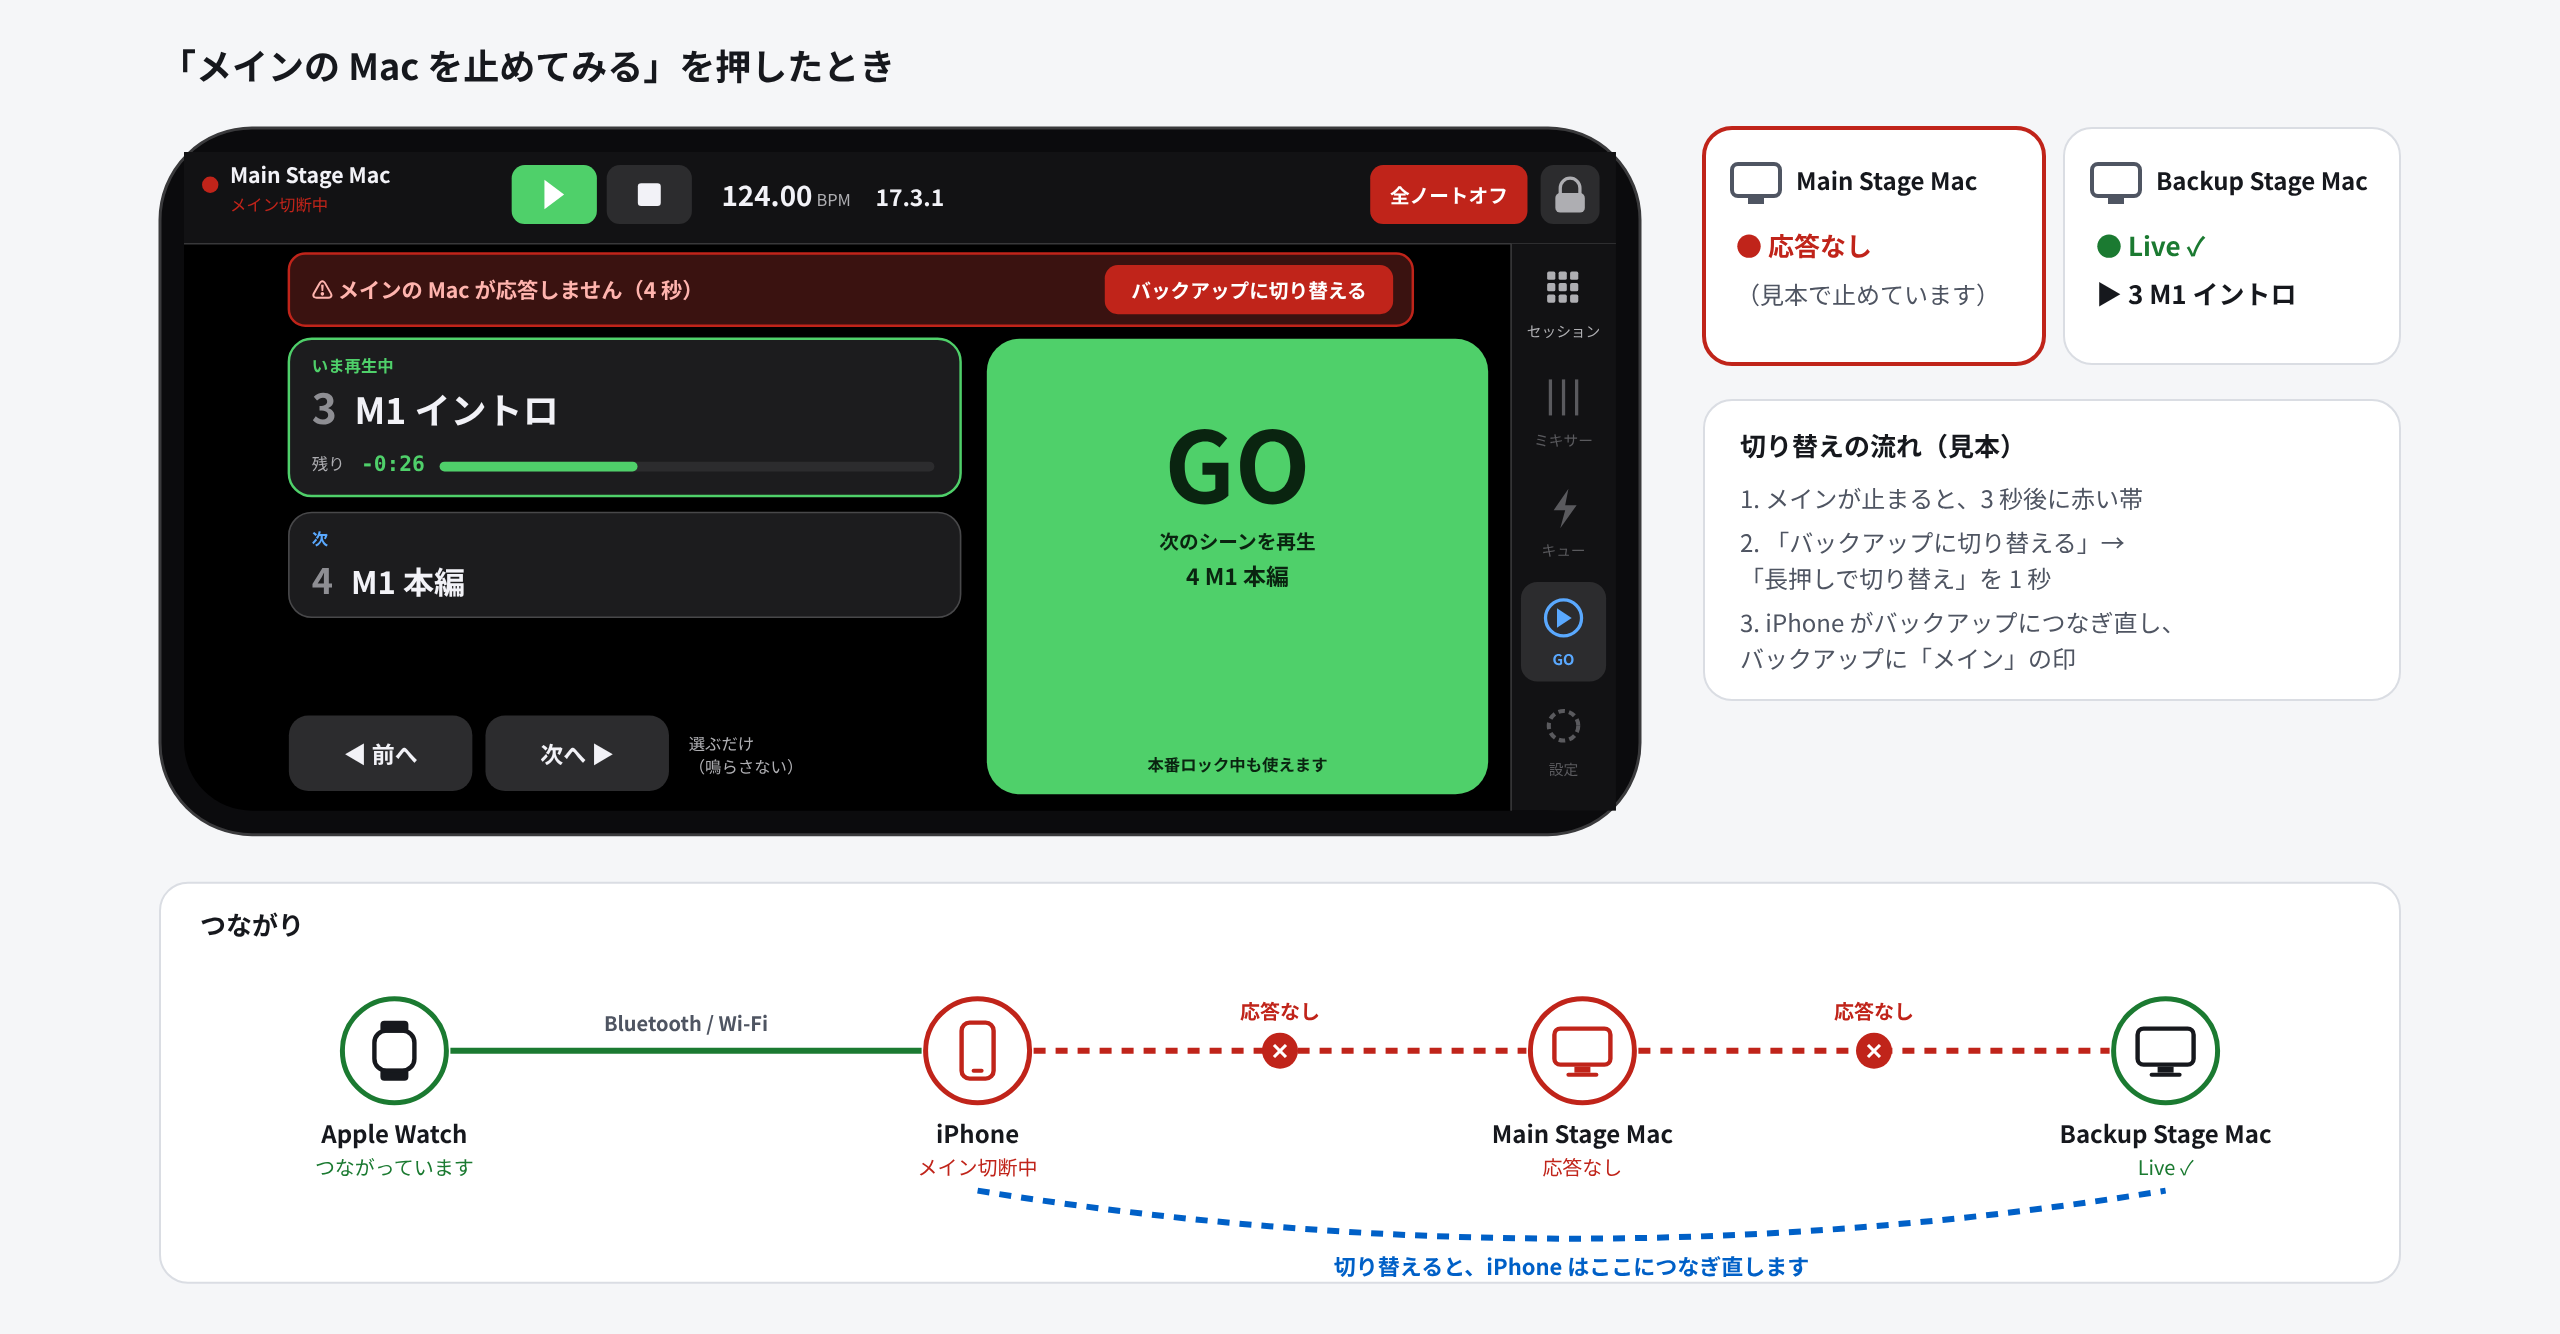
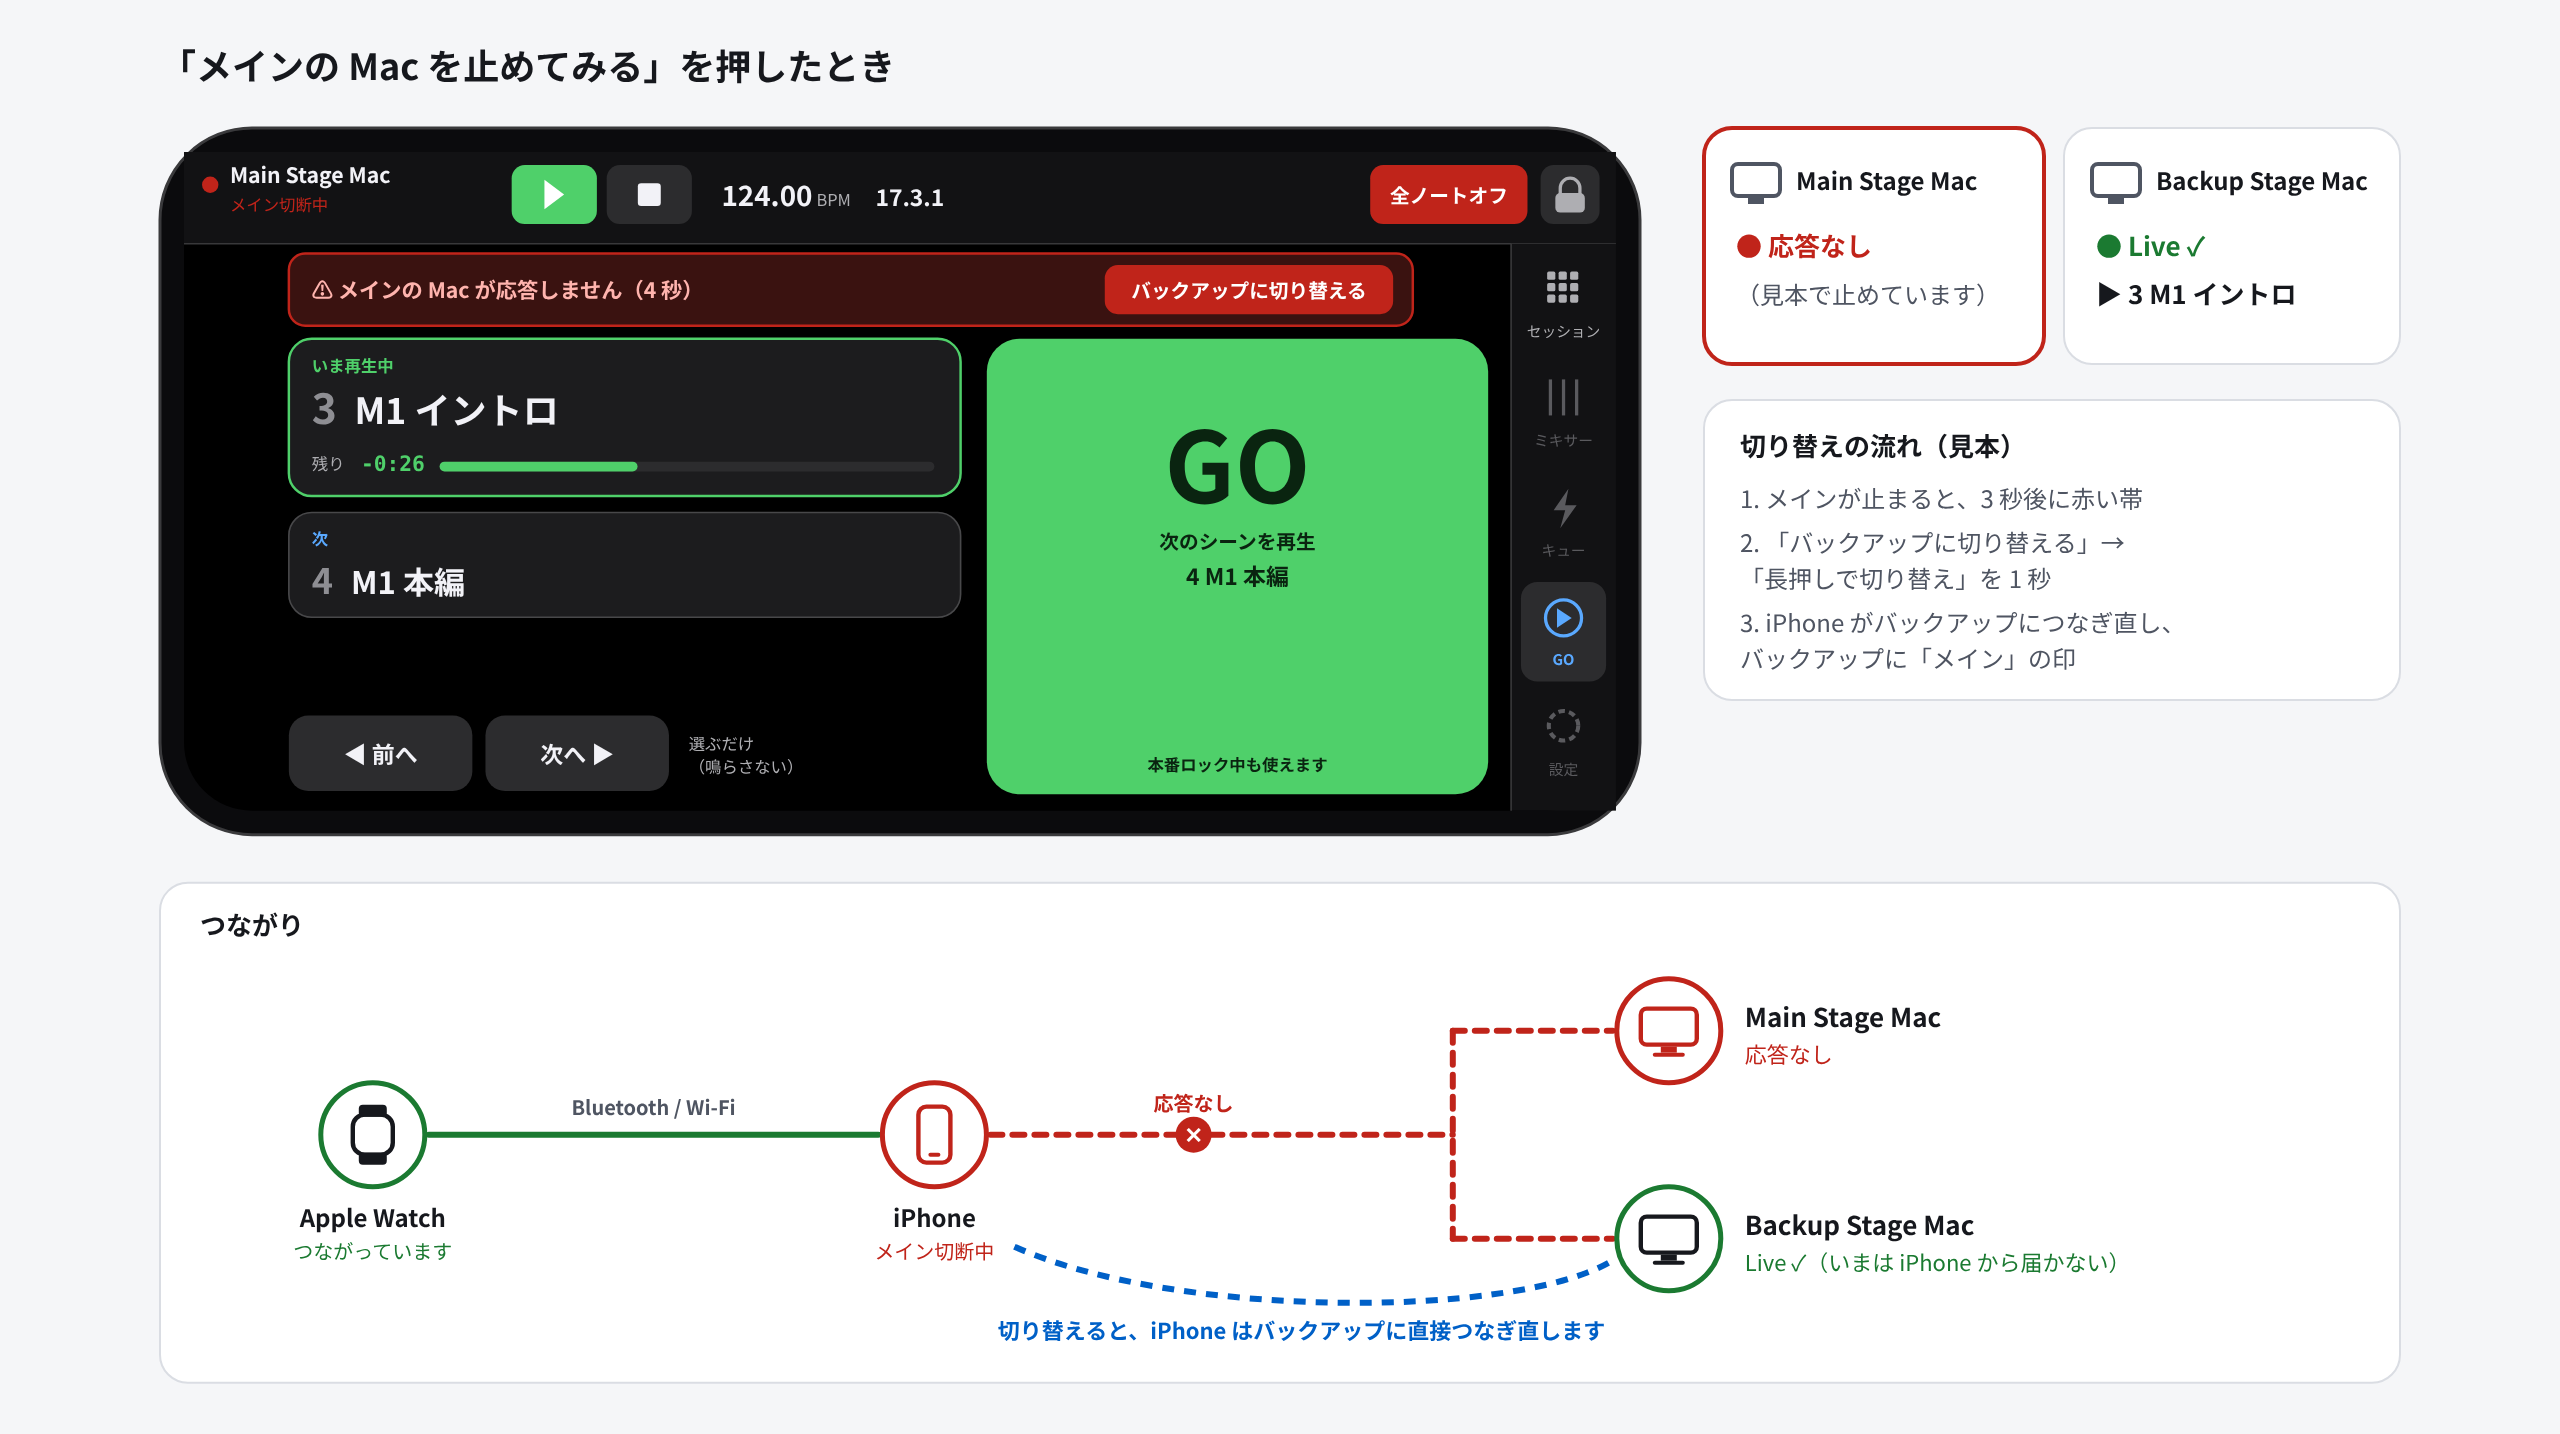
Design: connection map with the two Macs stacked and the iPhone line opening into a bracket to both (direct to the main, via the main to the backup)
Claude-Session: https://claude.ai/code/session_01Gt7kNaxT1jWHMTaBCcL4Zf

diff --git a/docs/design-site-demo.md b/docs/design-site-demo.md
@@ -21,7 +21,7 @@ JavaScript が動かないときは、今の画面の画像をそのまま出す
 - **2台の Mac**：「Main Stage Mac」「Backup Stage Mac」のカード。押した操作を同時に受け取ったことを「↓ GO を受け取りました 2 ms」で示す（音は鳴らない）。
 - **メインの Mac を止めてみる**：押すとメインのカードが赤く「応答なし」になり、iPhone に赤い帯「メインの Mac が応答しません」が出る。「バックアップに切り替える」→「長押しで切り替え」を 1 秒押すと、iPhone がバックアップにつなぎ直し、バックアップのカードに「メイン」の印が付く（アプリと同じ流れ）。
 - **はじめに戻す**：最初の状態に戻す。
-- **つながり**：Apple Watch ― iPhone ― Main Stage Mac ― Backup Stage Mac を線で結んだ図。つながっている線は緑、切れた線は赤の点線と ✕。メインを止めると、iPhone からバックアップへの青い点線（「切り替えると、iPhone はここにつなぎ直します」）が出る。切り替えたあとは、iPhone の線がバックアップにつながり、「メイン」の印がバックアップに移る。スマホの幅では縦に並べる。
+- **つながり**：Apple Watch ― iPhone ― の先で線がコの字に分かれ、縦に並べた Main Stage Mac（上）と Backup Stage Mac（下）につながる図。上の枝は「直接」、下の枝は「メイン経由（LAN）」。つながっている線は緑、切れた線は赤の点線と ✕。メインを止めると、iPhone からバックアップへの青い点線（「切り替えると、iPhone はバックアップに直接つなぎ直します」）が出る。切り替えたあとは、iPhone の線がバックアップに直接つながり、「メイン」の印がバックアップに移る。スマホの幅では Watch と iPhone を縦に並べ、その下でコの字に分かれて2台の Mac を横に並べる。
 
 ## 技術の選び方
 
